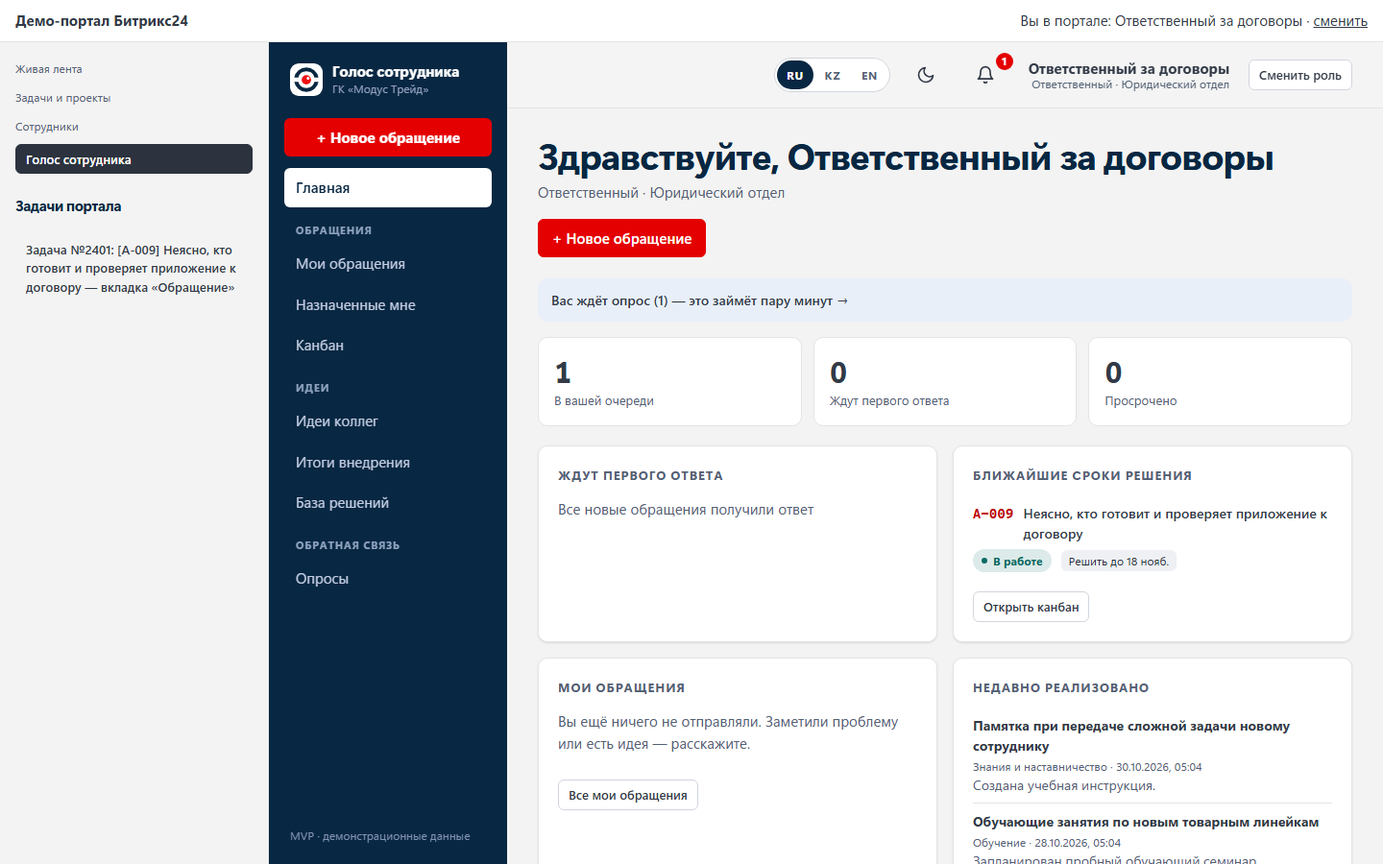
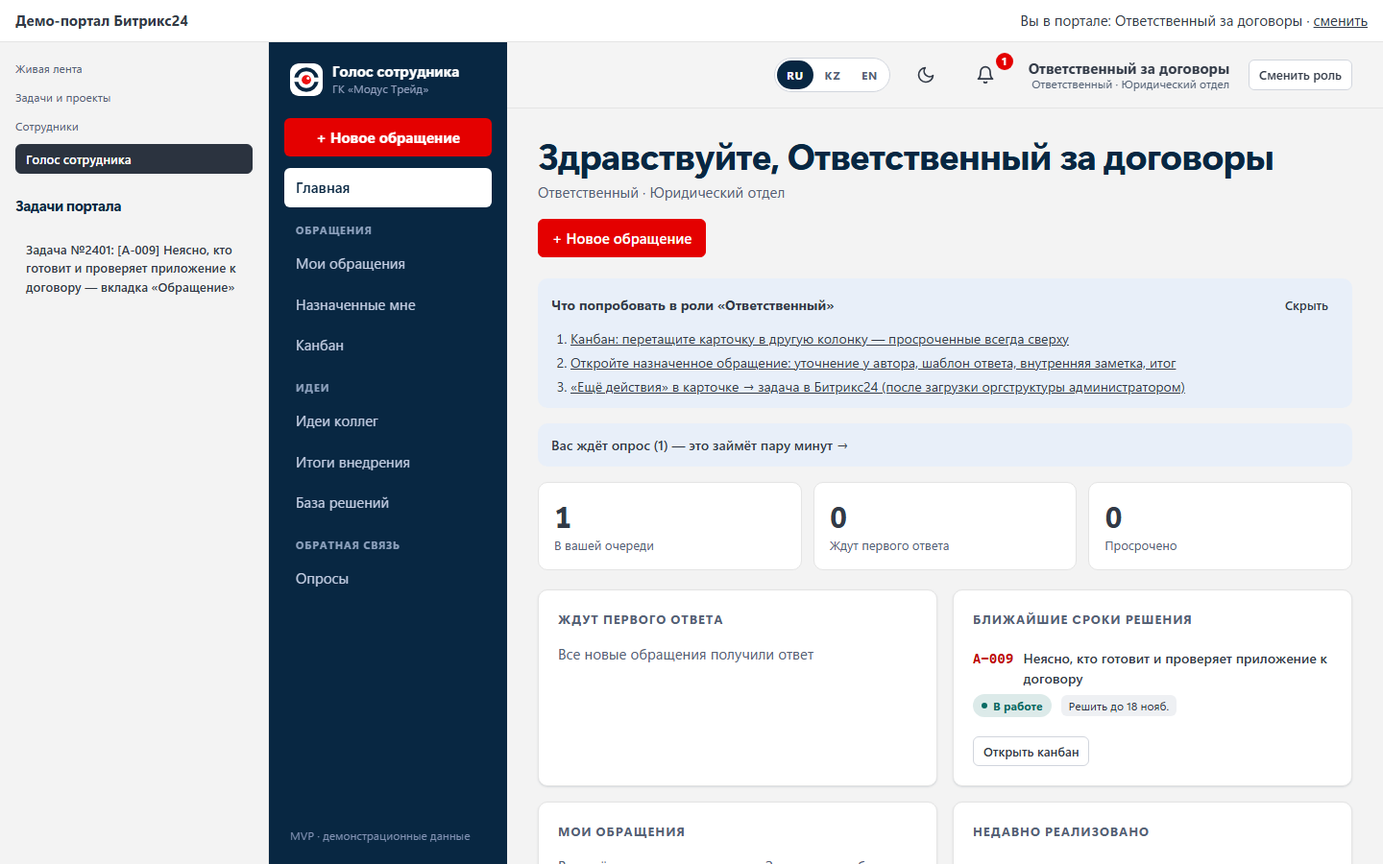
feat: подсказки «Что попробовать» на главной каждой роли в демо-режиме
Три ссылки на ключевые экраны для сотрудника, ответственного, руководителя и администратора;
карточку можно скрыть (запоминается в браузере для роли), в рабочей установке её нет.
Переводы на казахский и английский, e2e-тест, обновлены снимки и README.

diff --git a/public/js/i18n/kk.js b/public/js/i18n/kk.js
@@ -1191,4 +1191,19 @@ export default {
   'Сессии уволенных в Битрикс24 закрыты': 'Битрикс24-те жұмыстан шыққандардың сессиялары жабылды',
   'по ежедневной проверке: {1}': 'күнделікті тексеру бойынша: {1}',
   'Вход не настроен. Администратору: подключите вход через Битрикс24 (B24_CLIENT_ID) или, только во внутренней сети, разрешите вход выбором из списка (ALLOW_LIST_LOGIN=1).': 'Кіру бапталмаған. Әкімшіге: Битрикс24 арқылы кіруді қосыңыз (B24_CLIENT_ID) немесе тек ішкі желіде тізімнен таңдап кіруге рұқсат етіңіз (ALLOW_LIST_LOGIN=1).',
+  '«Ещё действия» в карточке → задача в Битрикс24 (после загрузки оргструктуры администратором)': 'Карточкадағы «Басқа әрекеттер» → Битрикс24-тегі тапсырма (әкімші ұйым құрылымын жүктегеннен кейін)',
+  '«Интеграции» → «Загрузить оргструктуру» → «Применить изменения»: сотрудники связываются с Битрикс24': '«Интеграциялар» → «Ұйым құрылымын жүктеу» → «Өзгерістерді қолдану»: қызметкерлер Битрикс24-пен байланыстырылады',
+  '«Открыть демо-портал»: система внутри Битрикс24 — пункт меню и вкладка задачи': '«Демо-порталды ашу»: жүйе Битрикс24 ішінде — мәзір тармағы және тапсырма қойындысы',
+  '«Показатели»: цели план/факт и карта повторяющихся проблем по отделам': '«Көрсеткіштер»: жоспар/факт мақсаттары және бөлімдер бойынша қайталанатын мәселелер картасы',
+  '«Сводка недели» — готовый текст для рассылки, «Отчёт за период» — печать в PDF': '«Апта жиынтығы» — таратуға дайын мәтін, «Кезең бойынша есеп» — PDF-ке басып шығару',
+  'Канбан: перетащите карточку в другую колонку — просроченные всегда сверху': 'Канбан: карточканы басқа бағанға сүйреңіз — мерзімі өткендер әрқашан жоғарыда',
+  'Красная плитка «Просрочено по SLA» ниже открывает отфильтрованный реестр': 'Төмендегі қызыл «SLA бойынша мерзімі өтті» тақтасы сүзілген тізілімді ашады',
+  'Откройте назначенное обращение: уточнение у автора, шаблон ответа, внутренняя заметка, итог': 'Тағайындалған өтінішті ашыңыз: авторға нақтылау, жауап үлгісі, ішкі жазба, қорытынды',
+  'Откройте своё рассмотренное обращение: итог, причина отказа и оценка «решён / не решён»': 'Қаралған өтінішіңізді ашыңыз: қорытынды, бас тарту себебі және «шешілді / шешілмеді» бағасы',
+  'Подайте обращение: начните писать «не найти актуальную инструкцию» — система покажет похожее и предложит «У меня тоже»': 'Өтініш беріңіз: «не найти актуальную инструкцию» деп жаза бастаңыз — жүйе ұқсасын көрсетіп, «Менде де» ұсынады',
+  'Проголосуйте за идею коллег — у каждого 5 голосов': 'Әріптестің идеясына дауыс беріңіз — әркімде 5 дауыс бар',
+  'Скрыть': 'Жасыру',
+  'Сроки, рабочие часы и часовой пояс; «Сбросить демо-данные» перед показом': 'Мерзімдер, жұмыс уақыты және уақыт белдеуі; көрсетер алдында «Демо-деректерді қалпына келтіру»',
+  'Что попробовать в роли «{1}»': '«{1}» рөлінде не істеп көруге болады',
+  'Что попробовать в этой роли': 'Осы рөлде не істеп көруге болады',
 };

diff --git a/public/js/views/home.js b/public/js/views/home.js
@@ -18,6 +18,52 @@ const tile = (value, label, { alert = false, href } = {}) =>
 
 const card = (title, ...body) => h('section', { class: 'card' }, h('h3', null, title), body);
 
+// Подсказки для показа и проверки: что попробовать в этой роли. Только в демо-режиме с демо-данными;
+// закрытая карточка не появляется снова в этом браузере (для каждой роли отдельно).
+const DEMO_HINTS = {
+  employee: [
+    ['Подайте обращение: начните писать «не найти актуальную инструкцию» — система покажет похожее и предложит «У меня тоже»', '#/new'],
+    ['Откройте своё рассмотренное обращение: итог, причина отказа и оценка «решён / не решён»', '#/tickets?scope=mine'],
+    ['Проголосуйте за идею коллег — у каждого 5 голосов', '#/tickets?scope=feed'],
+  ],
+  handler: [
+    ['Канбан: перетащите карточку в другую колонку — просроченные всегда сверху', '#/kanban'],
+    ['Откройте назначенное обращение: уточнение у автора, шаблон ответа, внутренняя заметка, итог', '#/tickets?scope=assigned'],
+    ['«Ещё действия» в карточке → задача в Битрикс24 (после загрузки оргструктуры администратором)', '#/tickets?scope=assigned'],
+  ],
+  manager: [
+    ['Красная плитка «Просрочено по SLA» ниже открывает отфильтрованный реестр', '#/tickets?scope=all&overdue=1'],
+    ['«Показатели»: цели план/факт и карта повторяющихся проблем по отделам', '#/analytics'],
+    ['«Сводка недели» — готовый текст для рассылки, «Отчёт за период» — печать в PDF', '#/digest'],
+  ],
+  admin: [
+    ['«Интеграции» → «Загрузить оргструктуру» → «Применить изменения»: сотрудники связываются с Битрикс24', '#/admin'],
+    ['«Открыть демо-портал»: система внутри Битрикс24 — пункт меню и вкладка задачи', '#/admin'],
+    ['Сроки, рабочие часы и часовой пояс; «Сбросить демо-данные» перед показом', '#/admin'],
+  ],
+};
+const hintKey = (role) => `demo-hints-closed:${role}`;
+const hintsClosed = (role) => {
+  try { return localStorage.getItem(hintKey(role)) === '1'; } catch { return false; }
+};
+
+function demoHints(me, meta) {
+  const hints = DEMO_HINTS[me.role];
+  if (!meta?.demoMode || !meta?.demoData || !hints || hintsClosed(me.role)) return null;
+  const box = h('section', { class: 'callout home-callout demo-hints', 'aria-label': 'Что попробовать в этой роли' },
+    h('div', { class: 'demo-hints-head' },
+      h('b', null, `Что попробовать в роли «${me.roleLabel}»`),
+      h('button', {
+        class: 'btn btn-ghost btn-sm', type: 'button',
+        onclick: () => {
+          try { localStorage.setItem(hintKey(me.role), '1'); } catch { /* приватный режим: просто скрываем */ }
+          box.remove();
+        },
+      }, 'Скрыть')),
+    h('ol', { class: 'demo-hints-list' }, hints.map(([text, href]) => h('li', null, h('a', { href }, text)))));
+  return box;
+}
+
 function oversightBlock(o) {
   const k = o.kpi;
   return [
@@ -72,13 +118,14 @@ function authorBlock(a, wins) {
       h('a', { class: 'btn btn-sm home-more', href: '#/board' }, 'Все итоги внедрения')));
 }
 
-export async function renderHome(el, { me }) {
+export async function renderHome(el, { me, meta }) {
   const home = await get('/home');
   const needsReply = home.author.needsReply;
   mount(el,
     h('div', { class: 'page-head' },
       h('div', null, h('h1', null, `Здравствуйте, ${me.name}`), h('p', null, `${me.roleLabel} · ${me.department}`)),
       h('a', { class: 'btn btn-signal', href: '#/new' }, '+ Новое обращение')),
+    demoHints(me, meta),
     home.surveysOpen > 0 && h('a', { class: 'callout home-callout home-survey', href: '#/surveys' },
       `Вас ждёт опрос (${home.surveysOpen}) — это займёт пару минут →`),
     needsReply.length > 0 && h('section', { class: 'callout home-callout' },

diff --git a/public/js/i18n/en.js b/public/js/i18n/en.js
@@ -1191,4 +1191,19 @@ export default {
   'Сессии уволенных в Битрикс24 закрыты': 'Sessions of employees dismissed in Bitrix24 closed',
   'по ежедневной проверке: {1}': 'by daily check: {1}',
   'Вход не настроен. Администратору: подключите вход через Битрикс24 (B24_CLIENT_ID) или, только во внутренней сети, разрешите вход выбором из списка (ALLOW_LIST_LOGIN=1).': 'Sign-in is not configured. Administrator: connect Bitrix24 sign-in (B24_CLIENT_ID) or, on an internal network only, allow sign-in by choosing from the list (ALLOW_LIST_LOGIN=1).',
+  '«Ещё действия» в карточке → задача в Битрикс24 (после загрузки оргструктуры администратором)': '“More actions” in the card → a Bitrix24 task (after the administrator loads the org structure)',
+  '«Интеграции» → «Загрузить оргструктуру» → «Применить изменения»: сотрудники связываются с Битрикс24': '“Integrations” → “Load org structure” → “Apply changes”: employees get linked to Bitrix24',
+  '«Открыть демо-портал»: система внутри Битрикс24 — пункт меню и вкладка задачи': '“Open demo portal”: the system inside Bitrix24 — a menu item and a task tab',
+  '«Показатели»: цели план/факт и карта повторяющихся проблем по отделам': '“Metrics”: plan/actual targets and the map of recurring problems by department',
+  '«Сводка недели» — готовый текст для рассылки, «Отчёт за период» — печать в PDF': '“Weekly summary” — ready-to-send text, “Period report” — print to PDF',
+  'Канбан: перетащите карточку в другую колонку — просроченные всегда сверху': 'Kanban: drag a card to another column — overdue ones are always on top',
+  'Красная плитка «Просрочено по SLA» ниже открывает отфильтрованный реестр': 'The red “SLA overdue” tile below opens the filtered register',
+  'Откройте назначенное обращение: уточнение у автора, шаблон ответа, внутренняя заметка, итог': 'Open an assigned request: ask the author for details, use a reply template, an internal note, the outcome',
+  'Откройте своё рассмотренное обращение: итог, причина отказа и оценка «решён / не решён»': 'Open your reviewed request: the outcome, the reason for rejection and the “resolved / not resolved” rating',
+  'Подайте обращение: начните писать «не найти актуальную инструкцию» — система покажет похожее и предложит «У меня тоже»': 'Submit a request: start describing the problem — the system will show similar requests and offer “Me too”',
+  'Проголосуйте за идею коллег — у каждого 5 голосов': 'Vote for a colleague’s idea — everyone has 5 votes',
+  'Скрыть': 'Hide',
+  'Сроки, рабочие часы и часовой пояс; «Сбросить демо-данные» перед показом': 'Deadlines, working hours and time zone; “Reset demo data” before a demo',
+  'Что попробовать в роли «{1}»': 'What to try as “{1}”',
+  'Что попробовать в этой роли': 'What to try in this role',
 };

diff --git a/e2e/workspace.spec.js b/e2e/workspace.spec.js
@@ -121,3 +121,23 @@ test('канбан: четыре рабочие колонки в окне, за
   await page.locator('.kb-done > summary').click();
   await expect(page.locator('.kanban-done [data-status="implemented"] .kb-card').first()).toBeVisible();
 });
+
+test('демо-подсказки: что попробовать в роли, ссылка ведёт на экран, «Скрыть» запоминается', async ({ page }) => {
+  await loginAs(page, 'Сотрудник офиса');
+  const hints = page.getByRole('region', { name: 'Что попробовать в этой роли' });
+  await expect(hints).toContainText('Что попробовать в роли «Сотрудник»');
+  await expect(hints.getByRole('listitem')).toHaveCount(3);
+  await hints.getByRole('link', { name: /Подайте обращение/ }).click();
+  await expect(page).toHaveURL(/#\/new/);
+
+  await page.goto('/#/home');
+  await hints.getByRole('button', { name: 'Скрыть' }).click();
+  await expect(hints).toHaveCount(0);
+  await page.reload();
+  await expect(page.getByRole('heading', { name: /Здравствуйте/ })).toBeVisible();
+  await expect(hints).toHaveCount(0);
+
+  // У другой роли — свои подсказки.
+  await loginAs(page, 'Директор по развитию');
+  await expect(hints).toContainText('Показатели');
+});

diff --git a/e2e/flows.spec.js b/e2e/flows.spec.js
@@ -58,7 +58,7 @@ test('руководитель: просроченные, фильтр в адр
   ]);
   expect(download.suggestedFilename()).toBe('obrashcheniya.csv');
 
-  await page.getByRole('link', { name: 'Показатели' }).click();
+  await page.getByRole('link', { name: 'Показатели', exact: true }).click();
   await expect(page.locator('.kpi.alert')).toContainText('Просрочено по SLA');
   await expect(page.locator('.kpi.alert .kpi-value')).toHaveText('4');
 });
@@ -74,7 +74,7 @@ test('постраничный вывод реестра', async ({ page }) => {
 
 test('сотруднику недоступны аналитика и настройки', async ({ page }) => {
   await loginAs(page, 'Сотрудник офиса');
-  await expect(page.getByRole('link', { name: 'Показатели' })).toHaveCount(0);
+  await expect(page.getByRole('link', { name: 'Показатели', exact: true })).toHaveCount(0);
   await page.goto('/#/analytics');
   await expect(page.locator('#content')).toContainText('нет доступа');
 });

diff --git a/e2e/zplatform.spec.js b/e2e/zplatform.spec.js
@@ -39,7 +39,7 @@ test('отчёт о внедрении появляется в карточке 
 
 test('руководитель: нагрузка в аналитике и отчёт за период', async ({ page }) => {
   await loginAs(page, 'Директор по развитию');
-  await page.getByRole('link', { name: 'Показатели' }).click();
+  await page.getByRole('link', { name: 'Показатели', exact: true }).click();
   await expect(page.locator('.card', { hasText: 'Нагрузка по ответственным' })).toContainText('IT-специалист');
   await expect(page.locator('.card', { hasText: 'Среднее время в статусе' })).toContainText('На рассмотрении');
 

diff --git a/public/css/styles.css b/public/css/styles.css
@@ -386,6 +386,10 @@ input[type=number] { border: 1px solid var(--line-strong); background: var(--sur
 .home-chips { margin-bottom: 8px; }
 .home-more { margin-top: 12px; }
 .home-callout { margin-bottom: 16px; }
+/* Подсказки демо-режима: что попробовать в роли. */
+.demo-hints-head { display: flex; justify-content: space-between; align-items: center; gap: 12px; }
+.demo-hints-list { margin: 8px 0 0; padding-left: 20px; display: grid; gap: 4px; }
+.demo-hints-list a { color: inherit; }
 .kpi-link { text-decoration: none; display: block; transition: transform var(--fast) var(--ease), box-shadow var(--fast); }
 .kpi-link:hover { transform: translateY(-2px); box-shadow: var(--shadow-2); }
 

diff --git a/README.md b/README.md
@@ -5,7 +5,7 @@
 ## Как проверить за 5 минут
 
 1. Нужен **Node.js 24+**. Установка зависимостей не требуется: `npm start` и откройте http://localhost:3000.
-2. На экране входа выберите роль — данные демонстрационные, пароля нет:
+2. На экране входа выберите роль — данные демонстрационные, пароля нет. На главной каждой роли — карточка «Что попробовать» со ссылками; ниже то же самое таблицей:
 
    | Роль | Что посмотреть |
    |---|---|
@@ -14,7 +14,7 @@
    | **Администратор** (вход сразу) | «Настройки»: маршрутизация, сроки и часовой пояс, хранение данных уволенных. «Интеграции» → «Загрузить оргструктуру» → «Применить изменения» — сотрудники связываются с Битрикс24 (нужно для задач и входа через портал); там же «Открыть демо-портал» — система внутри Битрикс24 |
    | **Ответственный** → «Ответственный за договоры» | После загрузки оргструктуры: A-009 → «Ещё действия» → «Создать задачу в Битрикс24», затем «Завершить задачу на демо-портале» — система сама увидит, что задача закрыта |
 
-3. Тесты: `npm test` (261 серверный тест) и `npm install && npx playwright install chromium && npm run test:e2e` (78 тестов в браузере).
+3. Тесты: `npm test` (261 серверный тест) и `npm install && npx playwright install chromium && npm run test:e2e` (79 тестов в браузере).
 4. Вернуть исходные данные: «Настройки» → «Сбросить демо-данные» или `npm run reset`.
 
 Интеграции с Битрикс24 и 1С УТ в демо работают со встроенным демо-порталом — настоящими HTTP-запросами в их форматах; что реализовано, а что имитация, — в разделе [«Известные ограничения»](#известные-ограничения-mvp).
@@ -145,7 +145,7 @@ npm start
 | `npm test` | 261 серверный тест с отчётом о покрытии (строки — около 98 %) |
 | `npm run loadtest` | нагрузочная проверка на временной базе: 10 000 обращений и 1 000 сотрудников (другие объёмы — `npm run loadtest -- 30000 3000`); печатает время каждого экрана и фоновой задачи, ничего не отправляет наружу |
 | `npm run backup` | резервная копия базы и вложений в `data/backups` (сервер можно не останавливать) |
-| `npm install`, затем `npx playwright install chromium`, затем `npm run test:e2e` | 78 сквозных тестов интерфейса (Playwright) на отдельной чистой базе: сценарии, эмуляция телефона Android, автоматическая проверка доступности (axe-core, WCAG 2.1 AA) в светлой и тёмной теме |
+| `npm install`, затем `npx playwright install chromium`, затем `npm run test:e2e` | 79 сквозных тестов интерфейса (Playwright) на отдельной чистой базе: сценарии, эмуляция телефона Android, автоматическая проверка доступности (axe-core, WCAG 2.1 AA) в светлой и тёмной теме |
 | `npm run screenshots` | пересоздать снимки экранов в `docs/screenshots/` |
 | `node scripts/make-icons.mjs` | пересоздать иконки приложения для телефона (`public/icons/`) из знака логотипа |
 | `npm run voice`, затем `npm run video`, затем `npm run video:voice` | пересобрать видео защиты с озвучкой. `voice` — нейросетевой голос Microsoft (нужны `python -m pip install edge-tts` и интернет; текст реплик из `e2e/demo-voice.json` отправляется в облачный сервис синтеза), без интернета — `npm run voice:offline` (встроенный голос Windows, звучит заметно хуже). `video` записывает сценарий в темпе реплик, `video:voice` накладывает звук → `docs/demo/demo.webm` |
@@ -240,6 +240,7 @@ docker build -t feedback-mvp . && docker run -p 3000:3000 -v feedback-data:/data
 - Опросы сотрудников с оценками 1–5 и открытыми вопросами; результаты сводные, доступны только после закрытия опроса и если ответивших не меньше трёх; закрытый опрос нельзя открыть заново.
 - Форма отзыва для клиентов без входа в систему (адрес `/#/client`) и раздел руководителя с расчётом NPS.
 - Вход в два шага: роль → человек; роль с одним пользователем входит сразу.
+- Подсказки демо-режима: на главной каждой роли — «Что попробовать» с тремя ссылками на ключевые экраны; карточку можно скрыть, в рабочей установке её нет.
 - Голосование за идеи: у каждого 5 голосов на открытые идеи из ленты, до 3 на одну; лента сортируется по популярности, голоса с рассмотренных идей возвращаются.
 - Сводка недели для руководителя: изменения к прошлой неделе, просрочки, популярные идеи, готовый текст для рассылки.
 - Подача с телефона: фото с камеры сжимается в браузере и прикрепляется к обращению.

diff --git a/docs/ARCHITECTURE.md b/docs/ARCHITECTURE.md
@@ -178,5 +178,5 @@ new ─▶ in_review ─▶ in_progress ─▶ implemented ─▶ closed
 ## Тестирование
 
 - `npm test` — 261 серверных тестов (`node:test`): доступ по ролям, маршрутизация и резервирование, переходы статусов, уточнения, внутренние заметки, анонимность, дубликаты, SLA в рабочих днях, эскалация, экспорт, постраничный вывод, оценка автора, срок сессии, праздники и настраиваемый SLA, напоминания, наблюдатели, задача Битрикс24, интеграции с Битрикс24 и 1С УТ (вход через Битрикс24, демо-портал, повторы, оргструктура, контрагенты, выгрузка по токену, миграция журнала), главная страница, лента идей, отчёты о внедрении, отчёт за период, шаблоны, пользователи, журнал действий, опросы, отзывы клиентов, голосование, сводка недели, цели показателей, карта повторяющихся проблем, база решений, полнота словарей перевода, импорт из CSV, сброс демо-данных, переназначение при отключении, аналитика, вложения, безопасность статики и JSON. Покрытие строк серверного кода — около 98%.
-- `npm run test:e2e` — 78 сквозных тестов интерфейса (Playwright, Chromium) на отдельном сервере с чистой базой, включая эмуляцию телефона Android и проверку доступности axe-core (WCAG 2.1 A/AA, без ошибок уровня serious/critical) на 12 экранах в светлой теме и 4 в тёмной.
+- `npm run test:e2e` — 79 сквозных тестов интерфейса (Playwright, Chromium) на отдельном сервере с чистой базой, включая эмуляцию телефона Android и проверку доступности axe-core (WCAG 2.1 A/AA, без ошибок уровня serious/critical) на 12 экранах в светлой теме и 4 в тёмной.
 - Автопроверка (`.github/workflows/ci.yml`): на каждый push в main и на каждый PR — полнота словарей перевода, серверные тесты и тесты интерфейса; при ошибке сохраняется отчёт Playwright. На GitHub запуск сейчас выключен из-за ограничения GitHub Actions в аккаунте — проверки выполняются локально теми же командами; включается снова командой `gh workflow enable CI`.
